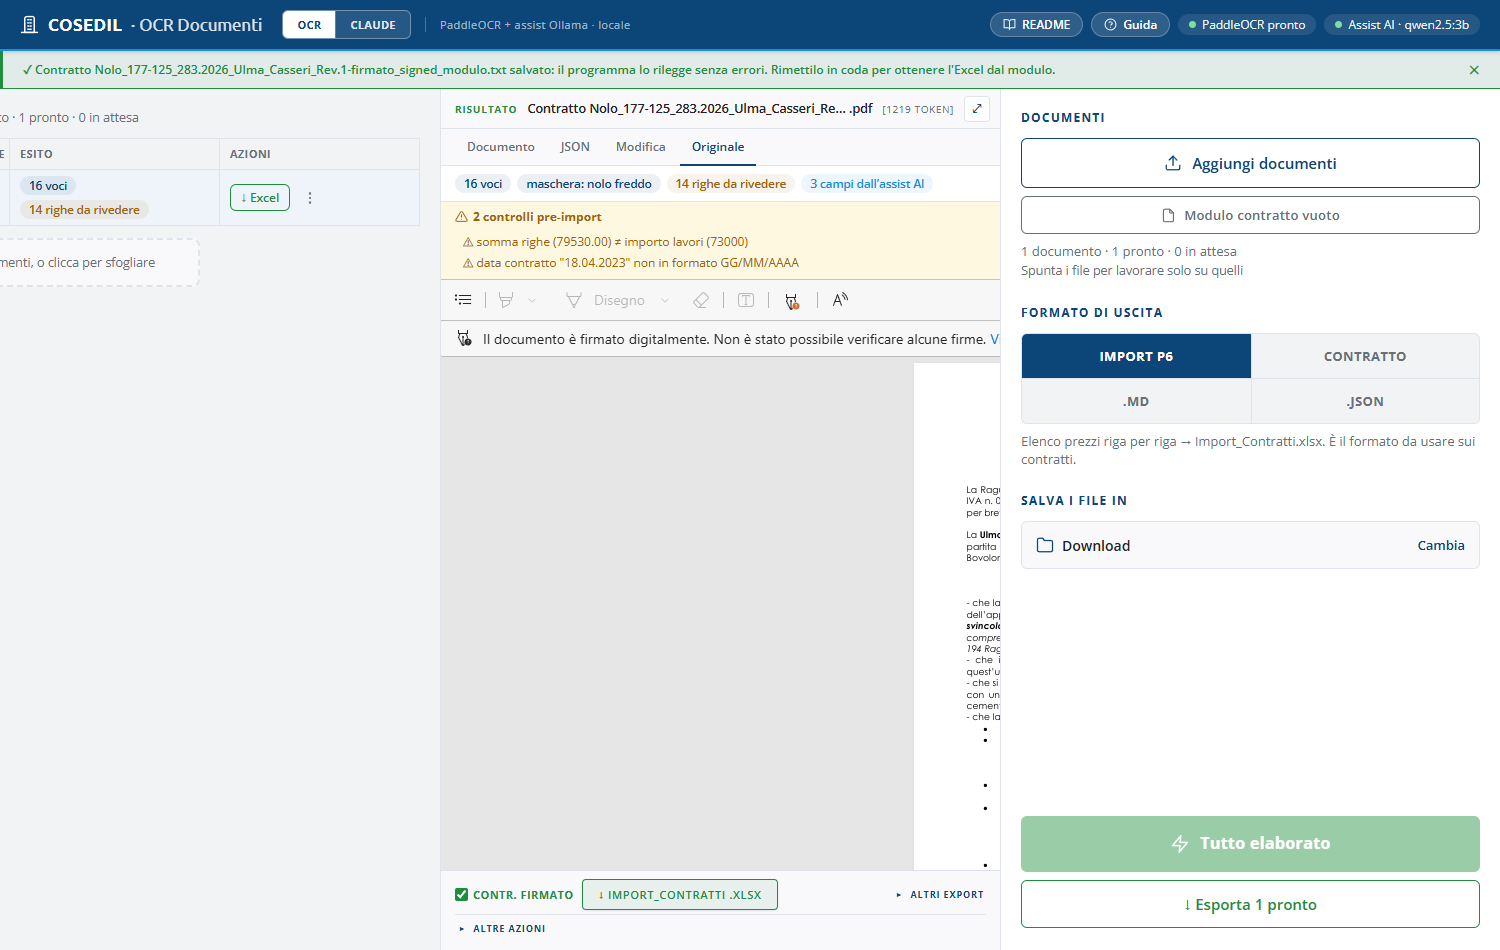
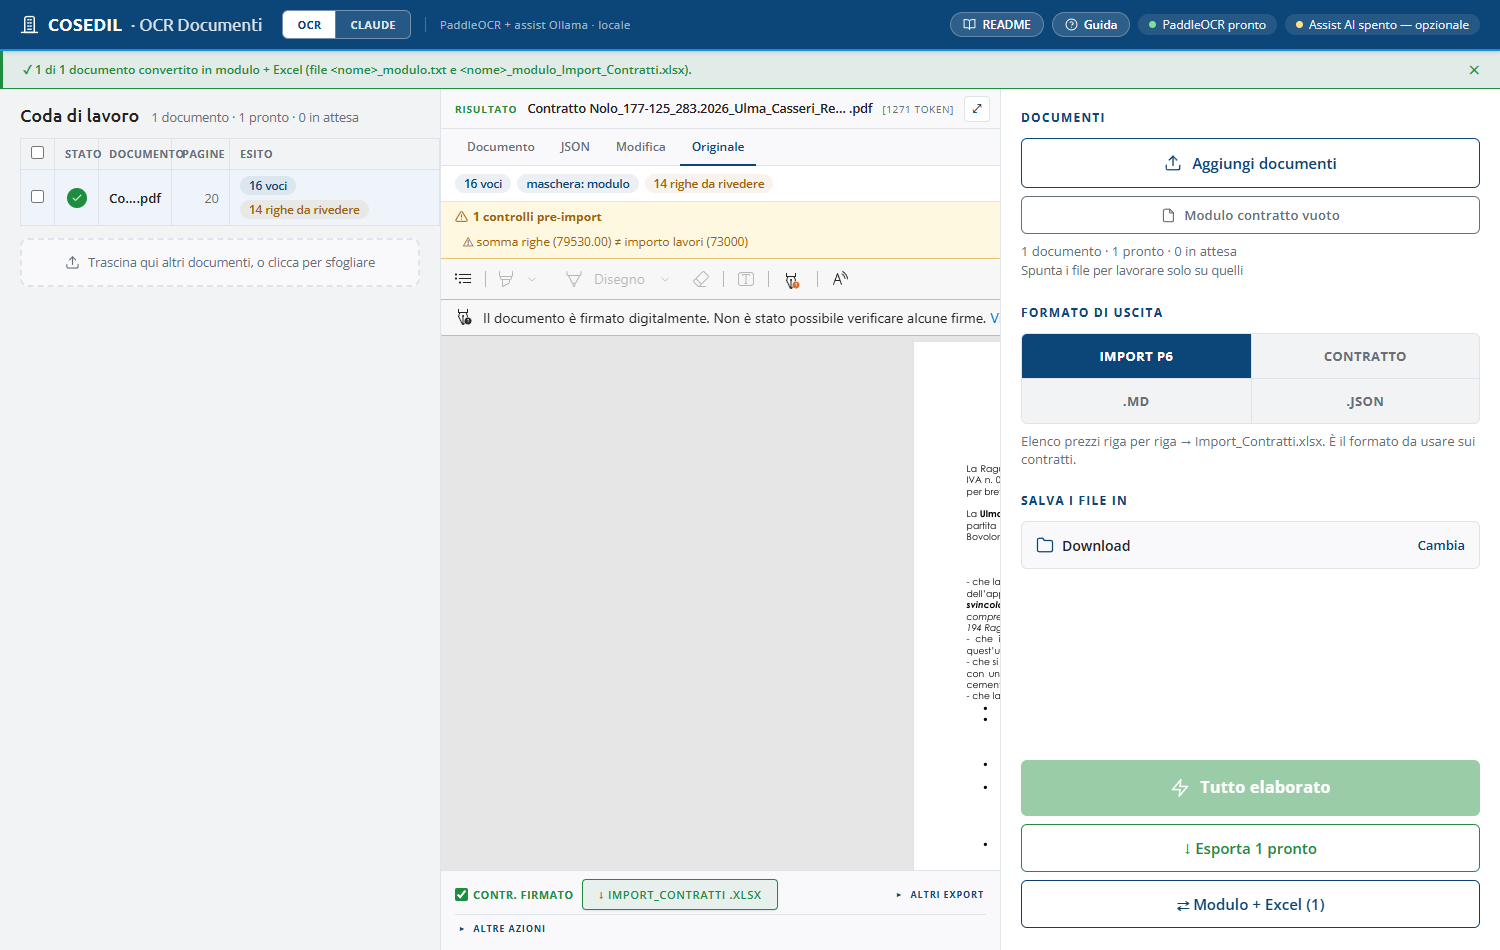
docs(ocr-documenti): guida e pipeline del giro documento → modulo → Excel dal modulo
Cosa: docs/guida/04 (§ «Da un documento al modulo compilato») descrive i due file salvati,
la voce di menu «Converti in modulo contratto + Excel» e il pulsante «⇄ Modulo + Excel»;
nuova immagine 14-converti-esito.png (banner verde, pulsante, pannello «maschera: modulo»).
docs/guida/05 aggiorna il caso «riquadro rosso, niente Excel». PIPELINE_MODULO_CONTRATTO.md
ha lo schema completo con il ritorno da risultatoDaModulo e moduloEExcel; README e
GUIDA_UTILIZZO allineati.

Perché: la funzione cambia cosa ottiene l'utente (Excel subito, coerente col modulo) e
quando non lo ottiene (modulo con errori).

Verifica: screenshot preso dalla prova dal vivo del commit precedente; rilettura dei link
alle immagini.

diff --git a/ocr-documenti/docs/guida/04-formati-e-claude.md b/ocr-documenti/docs/guida/04-formati-e-claude.md
@@ -107,15 +107,24 @@ scritte a parole vengono tradotte nel codice Alyante (es. *60 gg DFFM bonifico* 
 Il modulo non va per forza scritto da zero: il programma può **compilarlo da solo**
 partendo da un contratto qualsiasi in coda (PDF, scansione, Word).
 
-1. Passa col mouse sui **⋮** della riga del documento e scegli **Converti in modulo
-   contratto**.
+1. Per un documento: passa col mouse sui **⋮** della riga e scegli **Converti in modulo
+   contratto + Excel**. Per tutti (o solo quelli spuntati): pulsante **⇄ Modulo + Excel**
+   nella colonna di destra, sotto *Esporta*.
 2. Il programma legge il documento come sempre. Se l'hai già elaborato in IMPORT P6,
-   anche corretto in *Modifica*, usa quei dati senza rileggerlo. Poi salva
-   `<nome>_modulo.txt` nella cartella scelta in *Salva i file in*.
-3. Apri il file e **confrontalo col documento**: i valori sono quelli letti, già nel
-   formato del modulo, con date `GG/MM/AAAA` e numeri `1.234,56`. Correggi dove la
-   lettura ha sbagliato.
-4. Rimetti il file in coda e premi **Scansiona**: l'Excel esce dal modulo, alla lettera.
+   anche corretto in *Modifica*, usa quei dati senza rileggerlo.
+3. Salva **due file** nella cartella scelta in *Salva i file in*:
+   - `<nome>_modulo.txt`, il modulo compilato;
+   - `<nome>_modulo_Import_Contratti.xlsx`, l'Excel **compilato dai valori del modulo**:
+     il programma rilegge il modulo appena scritto alla lettera, senza OCR né AI, quindi
+     Excel e modulo dicono la stessa cosa riga per riga. Anche il pannello e **↓ Excel**
+     sulla riga passano a quei dati (etichetta *maschera: modulo*).
+4. Apri il modulo e **confrontalo col documento**, soprattutto le righe `# DA VERIFICARE`.
+   Se correggi qualcosa, rimetti il `.txt` in coda e premi **Scansiona**: l'Excel si rifà
+   dal modulo corretto.
+
+Se il modulo ha un errore che il programma non accetterebbe (per esempio manca la data
+del contratto) l'Excel **non** viene fatto: uscirebbe diverso dal modulo. Il riquadro rosso
+dice cosa completare; dopo, si rimette in coda il `.txt`.
 
 ![Il menu ⋮ con la voce Converti in modulo contratto](img/13-converti-menu.png)
 
@@ -127,9 +136,9 @@ lo segnala, così non si perde nulla:
 - una voce con importo diverso da quantità × prezzo resta com'è, segnata `# DA VERIFICARE`;
 - una voce senza articolo né descrizione resta nel file come commento.
 
-Il riquadro **verde** dice che il modulo si rilegge senza errori. Il riquadro
+Il riquadro **verde** dice quanti documenti sono diventati modulo + Excel. Il riquadro
 **rosso** elenca, con il numero di riga, cosa va completato prima di ricaricarlo.
 
-![Modulo salvato: il programma lo rilegge senza errori](img/14-converti-esito.png)
+![Modulo + Excel salvati: riquadro verde, pulsante ⇄ Modulo + Excel a destra, pannello con maschera: modulo](img/14-converti-esito.png)
 
 [← Controllare e correggere](03-controllo-e-modifica.md) · [Avanti: Se qualcosa non va →](05-problemi.md)

diff --git a/ocr-documenti/docs/PIPELINE_MODULO_CONTRATTO.md b/ocr-documenti/docs/PIPELINE_MODULO_CONTRATTO.md
@@ -143,7 +143,23 @@ Documento in coda ──► menu ⋮ «Converti in modulo contratto» (App.tsx: 
                                                        │
                                                        ▼
                  moduloDaRisultato(json) → { testo, avvisi, errori } → <nome>_modulo.txt
+                                                       │ errori? ── sì ──► stop, niente Excel (banner rosso)
+                                                       ▼ no
+                 POST /api/ocr { text: modulo, contratti, nativo } → risultatoDaModulo (alla lettera, no AI)
+                                                       │
+                                                       ▼
+            buildImportContrattiRowsFromAlyante → <nome>_modulo_Import_Contratti.xlsx
+            + il risultato della voce in coda diventa quello del modulo (pannello, «↓ Excel»)
 ```
+
+Nell'app il nucleo è `moduloEExcel(i)` in [App.tsx](../src/App.tsx), che restituisce
+l'esito senza scrivere banner. Lo chiamano la voce del menu ⋮ (`convertiInModulo`) e il
+pulsante **⇄ Modulo + Excel** in colonna destra (`convertiSelezionatiInModulo`: tutte le
+voci convertibili o solo le spuntate, una dopo l'altra, riepilogo finale). L'Excel nasce
+dal modulo e non dal JSON dell'estrazione: dedup, commessa indovinata e riparazioni OCR
+non ci sono, quindi Excel e `.txt` coincidono voce per voce. Prova dal vivo (Edge
+headless, nolo Ulma): 16 voci nel modulo, 16 righe nell'Excel, articolo, quantità e
+prezzo uguali.
 
 `moduloDaRisultato` ([src/lib/modulo-contratto.ts](../src/lib/modulo-contratto.ts)) è
 una funzione pura, condivisa: la usano l'app e `tools/harness.ts`, che scrive

diff --git a/ocr-documenti/docs/guida/05-problemi.md b/ocr-documenti/docs/guida/05-problemi.md
@@ -12,7 +12,7 @@
 | Celle rosse su PROGETTO/EPU | Commessa non nell'elenco ufficiale: correggi il codice o chiedi di aggiornare l'elenco. |
 | Riquadro giallo con *somma righe ≠ importo lavori* | Mancano righe o l'importo di testata è diverso: controlla l'originale e correggi in **Modifica**. |
 | *Modulo contratto non valido (N errori)* | Il modulo compilato a mano ha valori fuori formato: ogni errore dice la **riga** del file. Correggi, salva e premi **Scansiona** (vedi [4.4](04-formati-e-claude.md#44-modulo-contratto-i-dati-scritti-a-mano-letti-alla-lettera)). |
-| Dopo *Converti in modulo contratto* il riquadro rosso dice che il modulo va completato | Il documento non riportava un dato obbligatorio, o un valore letto era fuori formato. Apri `<nome>_modulo.txt`, cerca le righe `# DA VERIFICARE`, compila i campi indicati e rimetti il file in coda. |
+| Dopo *Converti in modulo contratto + Excel* il riquadro rosso dice che il modulo va completato, e l'Excel non c'è | Il documento non riportava un dato obbligatorio, o un valore letto era fuori formato: l'Excel non si fa finché il modulo non è valido. Apri `<nome>_modulo.txt`, cerca le righe `# DA VERIFICARE`, compila i campi indicati e rimetti il file in coda: l'Excel esce dal modulo corretto. |
 | Un modulo `.txt` viene mostrato come testo invece di essere elaborato | La prima riga del file deve essere esattamente `MODULO CONTRATTO OCR v1`: parti dal modulo vuoto scaricato. |
 | *«Manca l'altro file»* | Hai una bozza Word senza PDF o viceversa: **Aggiungi l'altro file** o **Procedi senza**. |
 | La scheda **Originale** è vuota | Il browser non riesce a mostrare il PDF dentro la pagina: usa **⋮ → Apri in un'altra finestra**. |

diff --git a/ocr-documenti/GUIDA_UTILIZZO.md b/ocr-documenti/GUIDA_UTILIZZO.md
@@ -194,9 +194,12 @@ nella coda e si preme **Elabora → Excel**. Esiste anche in Word (`docs/modulo/
 - Numeri `1.234,56`, date `GG/MM/AAAA`, tipologia dall'elenco, P.IVA 11 cifre.
 - Obbligatori: codice contratto, tipologia, data contratto, oggetto, fornitore.
 - Un errore blocca l'Excel: il riquadro rosso li elenca **con il numero di riga**.
-- **Converti in modulo contratto** (menu ⋮ della riga) compila il modulo da un documento
-  qualsiasi: lo legge, salva `<nome>_modulo.txt` e segna `# DA VERIFICARE` ciò che non
-  ha potuto riportare così come letto. Si controlla, si corregge e si rimette in coda.
+- **Converti in modulo contratto + Excel** (menu ⋮ della riga) o **⇄ Modulo + Excel**
+  (colonna destra, tutti o gli spuntati) compila il modulo da un documento qualsiasi: lo
+  legge, salva `<nome>_modulo.txt` (segnando `# DA VERIFICARE` ciò che non ha potuto
+  riportare così come letto) e subito dopo `<nome>_modulo_Import_Contratti.xlsx`,
+  compilato rileggendo il modulo alla lettera, senza AI: Excel e modulo coincidono. Se il
+  modulo ha errori l'Excel non si fa; se correggi il `.txt`, rimettilo in coda.
 
 **Come si compila un contratto vero** (regole usate sui moduli di esempio):
 

diff --git a/ocr-documenti/README.md b/ocr-documenti/README.md
@@ -123,7 +123,9 @@ Il giro inverso: **Converti in modulo contratto** (menu ⋮ della riga in coda) 
 documento qualsiasi con la filiera normale e lo riscrive come modulo compilato
 (`moduloDaRisultato`, stesso file). I valori fuori formato non vengono aggiustati:
 campo vuoto e valore letto in una riga `# DA VERIFICARE`. Il modulo prodotto ripassa da
-`leggiModulo` e l'app dice subito se si rilegge senza errori. Anche `npm run harness`
+`leggiModulo`; se si rilegge senza errori l'app lo rimanda al server (`risultatoDaModulo`,
+niente AI) e salva `<nome>_modulo_Import_Contratti.xlsx` compilato dai valori del modulo.
+Stesso giro in blocco col pulsante **⇄ Modulo + Excel**. Anche `npm run harness`
 scrive `modulo.txt` accanto ad `alyante.json`.
 
 `npm run moduli` ([tools/verifica_moduli.ts](tools/verifica_moduli.ts)) rilegge i moduli
